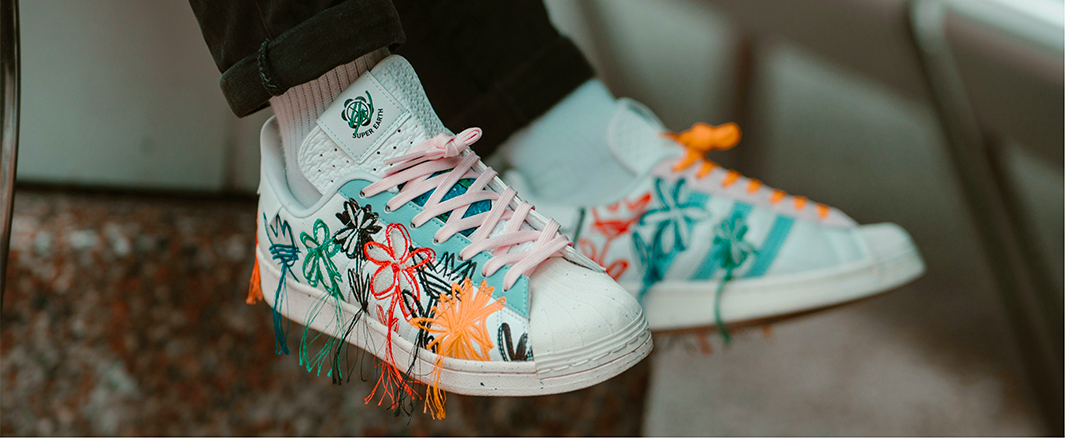
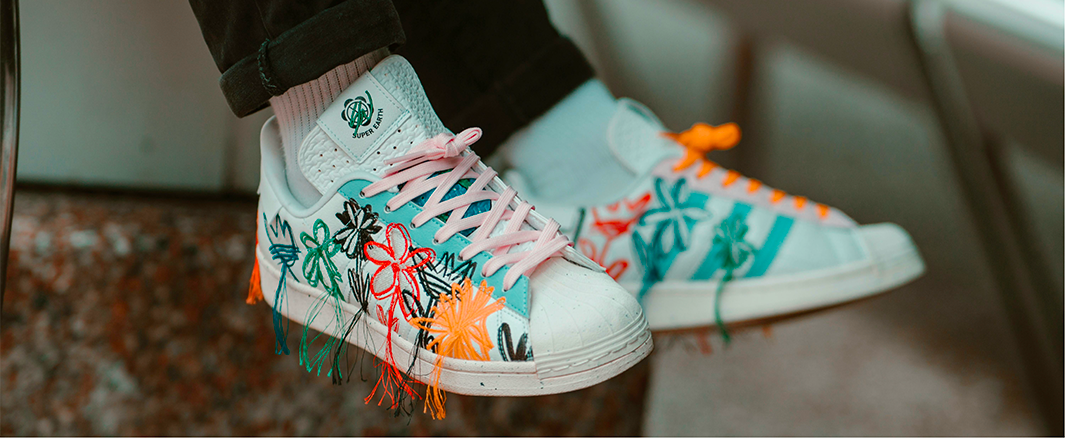
🔨 Sistemazione immagini grandi metrix 🔨
- Sono state ridimensionate due immagini per renderle più piccole di dimensioni e quindi anche di peso

diff --git a/prodotti.html b/prodotti.html
@@ -11,7 +11,7 @@
       <!-- Navbar -->
       <div class="topnav" id="myTopnav">
          <a href="index.html" class="logo" style="padding: 0%;">
-         <img src="Immagini/Logo-personale.png" width="auto" height="auto" alt="Logo personale" style="margin-top: 5px;">
+         <img src="Immagini/Logo-personale.png" width="80px" height="50px" alt="Logo personale" style="margin-top: 5px;">
          </a>
          <a href="index.html#Contatti" class="nav-link"> Contatti </a>
          <a href="index.html#Chisiamo" class="nav-link"> Chi siamo </a>

diff --git a/about-us.html b/about-us.html
@@ -10,7 +10,7 @@
     <!-- Navbar -->
     <div class="topnav" id="myTopnav">
         <a href="index.html" class="logo" style="padding: 0%;">
-          <img src="Immagini/Logo-personale.png" width="auto" height="auto" alt="Logo personale" style="margin-top: 5px;">
+          <img src="Immagini/Logo-personale.png" width="80px" height="50px" alt="Logo personale" style="margin-top: 5px;">
         </a>
         <a href="index.html#Contatti" class="nav-link">
           <b>Contatti</b>

diff --git a/index.html b/index.html
@@ -17,7 +17,7 @@
     <!-- Navbar -->
     <div class="topnav" id="myTopnav">
       <a href="index.html" class="logo" style="padding: 0%;">
-        <img src="Immagini/Logo-personale.png" width="auto" height="auto" alt="Logo personale" style="margin-top: 5px;">
+        <img src="Immagini/Logo-personale.png" width="80px" height="50px" alt="Logo personale" style="margin-top: 5px;">
       </a>
       <a href="#Contatti" class="nav-link">
         <b>Contatti</b>

diff --git a/faq.html b/faq.html
@@ -12,7 +12,7 @@
 
     <div class="topnav" id="myTopnav">
       <a href="index.html" class="logo" style="padding: 0%;">
-        <img src="Immagini/Logo-personale.png" width="auto" height="auto" alt="Logo personale" style="margin-top: 5px;">
+        <img src="Immagini/Logo-personale.png" width="80px" height="50px" alt="Logo personale" style="margin-top: 5px;">
       </a>
       <a href="index.html#Contatti" class="nav-link">
         <b>Contatti</b>
